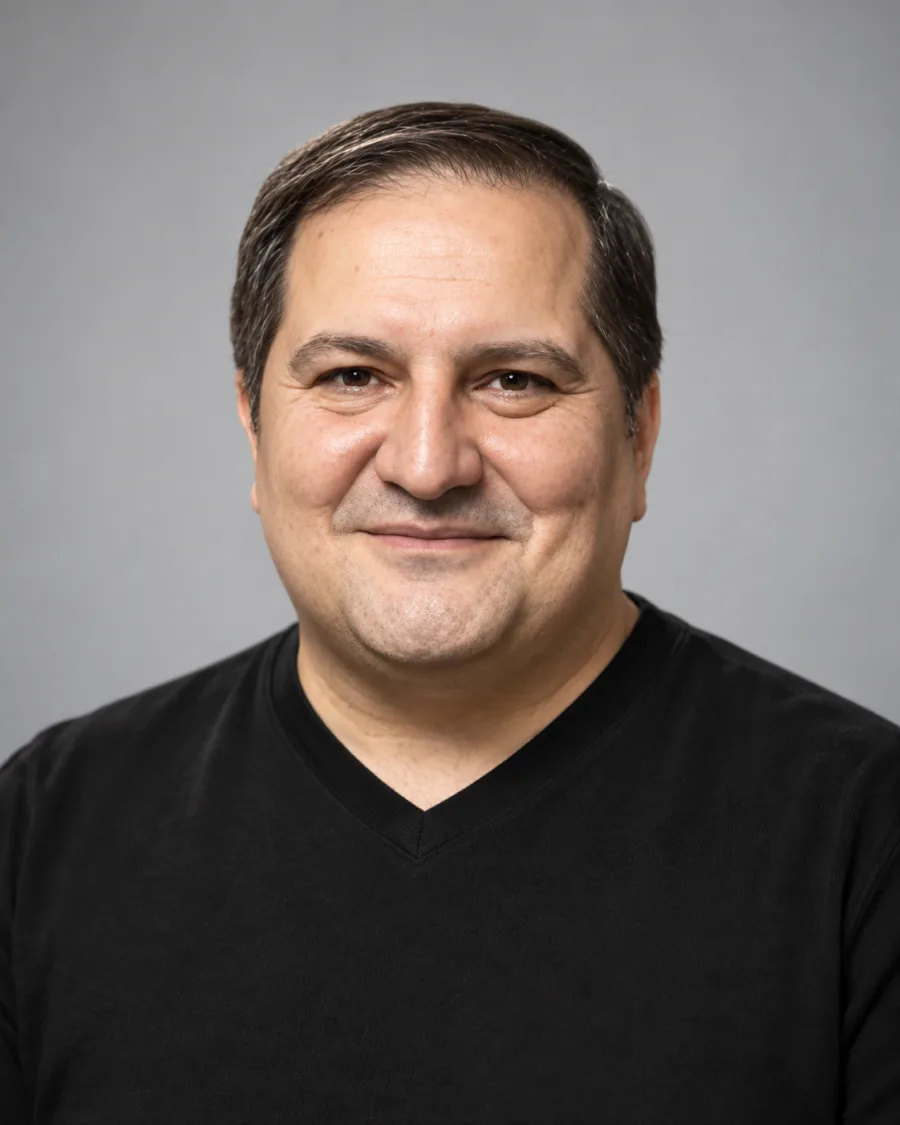
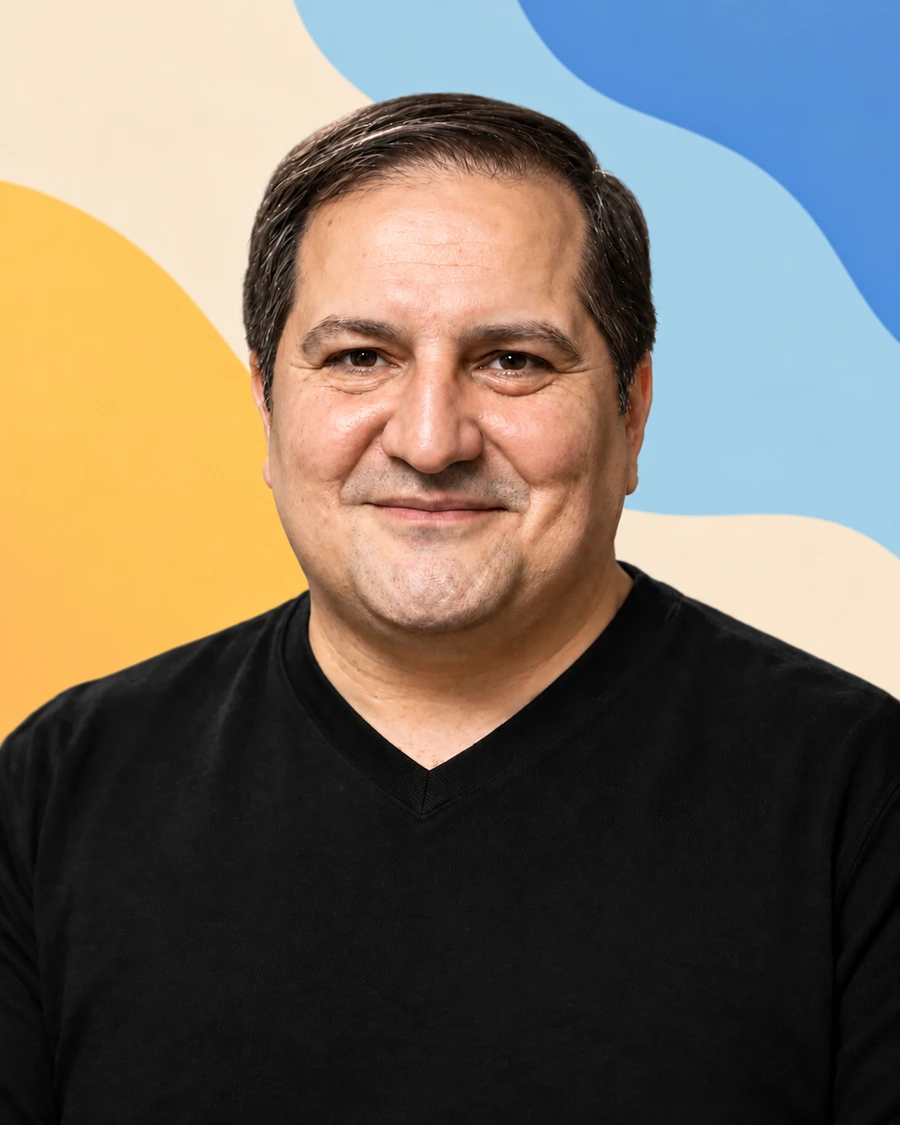
teachers: new colour photos, Mariam Morozova replaces Lilit Kh, bios in paragraphs
- all six teacher portraits on the coloured backgrounds (900×1125 webp)
- Mariam Morozova (Product Designer & Design Engineer) replaces Lilit Khachatryan
  on the three pages and in the aigraget lessons reel
- every bio split into one paragraph per sentence

diff --git a/aigraget.html b/aigraget.html
@@ -588,7 +588,7 @@
           <li><button type="button" class="reel__item" data-video="" aria-current="true"><span class="reel__num">01</span><span class="reel__thumb"><img src="assets/teachers/anahit.webp" alt="" loading="lazy" /></span><span class="reel__text"><span class="reel__name">AI հիմունքներ և անվտանգություն</span><span class="reel__who">Անահիտ Վարդանյան</span></span></button></li>
           <li><button type="button" class="reel__item" data-video=""><span class="reel__num">02</span><span class="reel__thumb"><img src="assets/teachers/nairi.webp" alt="" loading="lazy" /></span><span class="reel__text"><span class="reel__name">AI-ը կյանքի 10 իրավիճակներում</span><span class="reel__who">Նաիրի Արեգ Հացպանյան</span></span></button></li>
           <li><button type="button" class="reel__item" data-video=""><span class="reel__num">03</span><span class="reel__thumb"><img src="assets/teachers/artak.webp" alt="" loading="lazy" /></span><span class="reel__text"><span class="reel__name">Քո 1-ին AI նախագիծը՝ պրեզենտացիա ու Pitch</span><span class="reel__who">Արտակ Գրիգորյան</span></span></button></li>
-          <li><button type="button" class="reel__item" data-video=""><span class="reel__num">04</span><span class="reel__thumb"><img src="assets/teachers/lilit_kh.webp" alt="" loading="lazy" /></span><span class="reel__text"><span class="reel__name">Հետազոտություն ու աղբյուրահեն կոնտենտ</span><span class="reel__who">Լիլիթ Խաչատրյան</span></span></button></li>
+          <li><button type="button" class="reel__item" data-video=""><span class="reel__num">04</span><span class="reel__thumb"><img src="assets/teachers/mariam.webp" alt="" loading="lazy" /></span><span class="reel__text"><span class="reel__name">Հետազոտություն ու աղբյուրահեն կոնտենտ</span><span class="reel__who">Մարիամ Մորոզովա</span></span></button></li>
           <li><button type="button" class="reel__item" data-video=""><span class="reel__num">05</span><span class="reel__thumb"><img src="assets/teachers/lilit_b.webp" alt="" loading="lazy" /></span><span class="reel__text"><span class="reel__name">1000 բառի տեղ խոսող նկարների գեներացիա</span><span class="reel__who">Լիլիթ Բարսեղյան</span></span></button></li>
           <li><button type="button" class="reel__item" data-video=""><span class="reel__num">06</span><span class="reel__thumb"><img src="assets/teachers/gevorg.webp" alt="" loading="lazy" /></span><span class="reel__text"><span class="reel__name">AI վիդեոների գեներացիա. քո վիդեոների ժամանակն է</span><span class="reel__who">Գևորգ Պողոսյան</span></span></button></li>
           <li><button type="button" class="reel__item" data-video=""><span class="reel__num">07</span><span class="reel__thumb"><img src="assets/teachers/anahit.webp" alt="" loading="lazy" /></span><span class="reel__text"><span class="reel__name">Կայքէջերի գեներացիա՝ առանց ծրագրավորող լինելու</span><span class="reel__who">Անահիտ Վարդանյան</span></span></button></li>
@@ -1133,7 +1133,8 @@
               <h3 class="teacher__name">Անահիտ Վարդանյան</h3>
               <p class="teacher__role">AI Strategist</p>
             </div>
-            <p class="teacher__bio">5+ տարվա փորձ հաղորդակցության ոլորտում։ «AI քեզ բան» կրթական ծրագրի համակարգող։</p>
+            <p class="teacher__bio">5+ տարվա փորձ հաղորդակցության ոլորտում։</p>
+            <p class="teacher__bio">«AI քեզ բան» կրթական ծրագրի համակարգող։</p>
             <p class="teacher__meta">400+ ժամ · Start · Level-Up · PRO · Webinar</p>
           </div>
         </article>
@@ -1150,7 +1151,8 @@
               <h3 class="teacher__name">Նաիրի Արեգ Հացպանյան</h3>
               <p class="teacher__role">Full-Stack AI Engineer</p>
             </div>
-            <p class="teacher__bio">7+ տարվա փորձ Full-Stack Development և Vibe Coding։ Մասնագիտացած է custom AI agent ստեղծելու և AI ավտոմատացումների մեջ։</p>
+            <p class="teacher__bio">7+ տարվա փորձ Full-Stack Development և Vibe Coding։</p>
+            <p class="teacher__bio">Մասնագիտացած է custom AI agent ստեղծելու և AI ավտոմատացումների մեջ։</p>
             <p class="teacher__meta">155+ ժամ · Start · Level-Up · PRO · Webinar</p>
           </div>
         </article>
@@ -1167,25 +1169,28 @@
               <h3 class="teacher__name">Արտակ Գրիգորյան</h3>
               <p class="teacher__role">AI Transformation Consultant</p>
             </div>
-            <p class="teacher__bio">Արտակը 10+ տարվա նախագծերի կառավարման փորձ ունի։ AI Transformation թիմի համակարգող է և AI PM։ Վարում է AI ավտոմատացման, AI ագենտների և աղբյուրահեն հետազոտության դասընթացներ։</p>
+            <p class="teacher__bio">Արտակը 10+ տարվա նախագծերի կառավարման փորձ ունի։</p>
+            <p class="teacher__bio">AI Transformation թիմի համակարգող է և AI PM։</p>
+            <p class="teacher__bio">Վարում է AI ավտոմատացման, AI ագենտների և աղբյուրահեն հետազոտության դասընթացներ։</p>
             <p class="teacher__meta">335+ ժամ · Level-Up</p>
           </div>
         </article>
 
         <article class="teacher">
           <div class="teacher__photo">
-            <img src="assets/teachers/lilit_kh.webp" alt="Լիլիթ Խաչատրյան" loading="lazy" />
+            <img src="assets/teachers/mariam.webp" alt="Մարիամ Մորոզովա" loading="lazy" />
           </div>
-          <a class="teacher__link" href="https://www.linkedin.com/in/lika13/" target="_blank" rel="noopener" aria-label="Լիլիթ Խաչատրյան — LinkedIn">
+          <a class="teacher__link" href="https://www.linkedin.com/in/mariammorozova" target="_blank" rel="noopener" aria-label="Մարիամ Մորոզովա — LinkedIn">
             <img src="assets/lucide-arrow-up-right.svg" width="24" height="24" alt="" />
           </a>
           <div class="teacher__body">
             <div class="teacher__head">
-              <h3 class="teacher__name">Լիլիթ Խաչատրյան</h3>
-              <p class="teacher__role">Senior Product Designer &amp; AI Artist</p>
+              <h3 class="teacher__name">Մարիամ Մորոզովա</h3>
+              <p class="teacher__role">Product Designer &amp; Design Engineer</p>
             </div>
-            <p class="teacher__bio">15+ տարվա փորձ Product Design և UX/UI ոլորտներում։ Մասնագիտացած է AI-ով վիզուալներ գեներացնելու և UX/UI-ի մեջ։</p>
-            <p class="teacher__meta">65+ ժամ · Level-Up</p>
+            <p class="teacher__bio">20+ տարվա մասնագիտական փորձ գրաֆիկ, web և product design ոլորտներում։</p>
+            <p class="teacher__bio">AI էնտուզիաստ է, ազատ ժամանակ նկարում է և հող մշակում։</p>
+            <p class="teacher__meta">Level-Up</p>
           </div>
         </article>
 
@@ -1201,7 +1206,9 @@
               <h3 class="teacher__name">Լիլիթ Բարսեղյան</h3>
               <p class="teacher__role">AI Artist &amp; Director</p>
             </div>
-            <p class="teacher__bio">10+ տարվա փորձ ֆիլմարտադրության ոլորտում՝ ռեժիսոր, սցենարիստ։ Մասնագիտացած է AI-ով վիդեո պատմություններ գեներացնելու մեջ։ 2025 թ. դեկտեմբերի առաջին մրցանակին է արժանացել AI International Film Festival-ում՝ որպես Best AI Movie։</p>
+            <p class="teacher__bio">10+ տարվա փորձ ֆիլմարտադրության ոլորտում՝ ռեժիսոր, սցենարիստ։</p>
+            <p class="teacher__bio">Մասնագիտացած է AI-ով վիդեո պատմություններ գեներացնելու մեջ։</p>
+            <p class="teacher__bio">2025 թ. դեկտեմբերի առաջին մրցանակին է արժանացել AI International Film Festival-ում՝ որպես Best AI Movie։</p>
             <p class="teacher__meta">67+ ժամ · Level-Up</p>
           </div>
         </article>
@@ -1218,7 +1225,8 @@
               <h3 class="teacher__name">Գևորգ Պողոսյան</h3>
               <p class="teacher__role">AI First Mindset</p>
             </div>
-            <p class="teacher__bio">30+ տարվա ձեռնարկատիրական փորձով։ «AI-ն առաջին հերթին» մտածելակերպի ուսուցիչ։</p>
+            <p class="teacher__bio">30+ տարվա ձեռնարկատիրական փորձով։</p>
+            <p class="teacher__bio">«AI-ն առաջին հերթին» մտածելակերպի ուսուցիչ։</p>
             <p class="teacher__meta">79+ ժամ · PRO · Webinar</p>
           </div>
         </article>

diff --git a/index.html b/index.html
@@ -942,7 +942,8 @@
               <h3 class="teacher__name">Անահիտ Վարդանյան</h3>
               <p class="teacher__role">AI Strategist</p>
             </div>
-            <p class="teacher__bio">5+ տարվա փորձ հաղորդակցության ոլորտում։ «AI քեզ բան» կրթական ծրագրի համակարգող։</p>
+            <p class="teacher__bio">5+ տարվա փորձ հաղորդակցության ոլորտում։</p>
+            <p class="teacher__bio">«AI քեզ բան» կրթական ծրագրի համակարգող։</p>
             <p class="teacher__meta">400+ ժամ · Start · Level-Up · PRO · Webinar</p>
           </div>
         </article>
@@ -959,7 +960,8 @@
               <h3 class="teacher__name">Նաիրի Արեգ Հացպանյան</h3>
               <p class="teacher__role">Full-Stack AI Engineer</p>
             </div>
-            <p class="teacher__bio">7+ տարվա փորձ Full-Stack Development և Vibe Coding։ Մասնագիտացած է custom AI agent ստեղծելու և AI ավտոմատացումների մեջ։</p>
+            <p class="teacher__bio">7+ տարվա փորձ Full-Stack Development և Vibe Coding։</p>
+            <p class="teacher__bio">Մասնագիտացած է custom AI agent ստեղծելու և AI ավտոմատացումների մեջ։</p>
             <p class="teacher__meta">155+ ժամ · Start · Level-Up · PRO · Webinar</p>
           </div>
         </article>
@@ -976,25 +978,27 @@
               <h3 class="teacher__name">Արտակ Գրիգորյան</h3>
               <p class="teacher__role">AI Automation Expert</p>
             </div>
-            <p class="teacher__bio">10+ տարվա փորձ նախագծերի կառավարման ոլորտում։ AI ավտոմատացումների դասընթացավար և փորձագետ։</p>
+            <p class="teacher__bio">10+ տարվա փորձ նախագծերի կառավարման ոլորտում։</p>
+            <p class="teacher__bio">AI ավտոմատացումների դասընթացավար և փորձագետ։</p>
             <p class="teacher__meta">335+ ժամ · Level-Up</p>
           </div>
         </article>
 
         <article class="teacher">
           <div class="teacher__photo">
-            <img src="assets/teachers/lilit_kh.webp" alt="Լիլիթ Խաչատրյան" loading="lazy" />
+            <img src="assets/teachers/mariam.webp" alt="Մարիամ Մորոզովա" loading="lazy" />
           </div>
-          <a class="teacher__link" href="https://www.linkedin.com/in/lika13/" target="_blank" rel="noopener" aria-label="Լիլիթ Խաչատրյան — LinkedIn">
+          <a class="teacher__link" href="https://www.linkedin.com/in/mariammorozova" target="_blank" rel="noopener" aria-label="Մարիամ Մորոզովա — LinkedIn">
             <img src="assets/lucide-arrow-up-right.svg" width="24" height="24" alt="" />
           </a>
           <div class="teacher__body">
             <div class="teacher__head">
-              <h3 class="teacher__name">Լիլիթ Խաչատրյան</h3>
-              <p class="teacher__role">Senior Product Designer &amp; AI Artist</p>
+              <h3 class="teacher__name">Մարիամ Մորոզովա</h3>
+              <p class="teacher__role">Product Designer &amp; Design Engineer</p>
             </div>
-            <p class="teacher__bio">15+ տարվա փորձ Product Design և UX/UI ոլորտներում։ Մասնագիտացած է AI-ով վիզուալներ գեներացնելու և UX/UI-ի մեջ։</p>
-            <p class="teacher__meta">65+ ժամ · Level-Up</p>
+            <p class="teacher__bio">20+ տարվա մասնագիտական փորձ գրաֆիկ, web և product design ոլորտներում։</p>
+            <p class="teacher__bio">AI էնտուզիաստ է, ազատ ժամանակ նկարում է և հող մշակում։</p>
+            <p class="teacher__meta">Level-Up</p>
           </div>
         </article>
 
@@ -1010,7 +1014,9 @@
               <h3 class="teacher__name">Լիլիթ Բարսեղյան</h3>
               <p class="teacher__role">AI Artist &amp; Director</p>
             </div>
-            <p class="teacher__bio">10+ տարվա փորձ ֆիլմարտադրության ոլորտում՝ ռեժիսոր, սցենարիստ։ Մասնագիտացած է AI-ով վիդեո պատմություններ գեներացնելու մեջ։ 2025 թ. դեկտեմբերի առաջին մրցանակին է արժանացել RUNWAY AI ֆիլմերի համաշխարհային ֆեստիվալում։</p>
+            <p class="teacher__bio">10+ տարվա փորձ ֆիլմարտադրության ոլորտում՝ ռեժիսոր, սցենարիստ։</p>
+            <p class="teacher__bio">Մասնագիտացած է AI-ով վիդեո պատմություններ գեներացնելու մեջ։</p>
+            <p class="teacher__bio">2025 թ. դեկտեմբերի առաջին մրցանակին է արժանացել RUNWAY AI ֆիլմերի համաշխարհային ֆեստիվալում։</p>
             <p class="teacher__meta">67+ ժամ · Level-Up</p>
           </div>
         </article>
@@ -1027,7 +1033,8 @@
               <h3 class="teacher__name">Գևորգ Պողոսյան</h3>
               <p class="teacher__role">AI First Mindset</p>
             </div>
-            <p class="teacher__bio">30+ տարվա ձեռնարկատիրական փորձով։ «AI-ն առաջին հերթին» մտածելակերպի ուսուցիչ։</p>
+            <p class="teacher__bio">30+ տարվա ձեռնարկատիրական փորձով։</p>
+            <p class="teacher__bio">«AI-ն առաջին հերթին» մտածելակերպի ուսուցիչ։</p>
             <p class="teacher__meta">79+ ժամ · PRO · Webinar</p>
           </div>
         </article>

diff --git a/ai-grager.html b/ai-grager.html
@@ -520,7 +520,8 @@
               <h3 class="teacher__name">Անահիտ Վարդանյան</h3>
               <p class="teacher__role">AI Strategist</p>
             </div>
-            <p class="teacher__bio">5+ տարվա փորձ հաղորդակցության ոլորտում։ «AI քեզ բան» կրթական ծրագրի համակարգող։</p>
+            <p class="teacher__bio">5+ տարվա փորձ հաղորդակցության ոլորտում։</p>
+            <p class="teacher__bio">«AI քեզ բան» կրթական ծրագրի համակարգող։</p>
             <p class="teacher__meta">400+ ժամ · Start · Level-Up · PRO · Webinar</p>
           </div>
         </article>
@@ -537,7 +538,8 @@
               <h3 class="teacher__name">Նաիրի Արեգ Հացպանյան</h3>
               <p class="teacher__role">Full-Stack AI Engineer</p>
             </div>
-            <p class="teacher__bio">7+ տարվա փորձ Full-Stack Development և Vibe Coding։ Մասնագիտացած է custom AI agent ստեղծելու և AI ավտոմատացումների մեջ։</p>
+            <p class="teacher__bio">7+ տարվա փորձ Full-Stack Development և Vibe Coding։</p>
+            <p class="teacher__bio">Մասնագիտացած է custom AI agent ստեղծելու և AI ավտոմատացումների մեջ։</p>
             <p class="teacher__meta">155+ ժամ · Start · Level-Up · PRO · Webinar</p>
           </div>
         </article>
@@ -554,25 +556,27 @@
               <h3 class="teacher__name">Արտակ Գրիգորյան</h3>
               <p class="teacher__role">AI Automation Expert</p>
             </div>
-            <p class="teacher__bio">10+ տարվա փորձ նախագծերի կառավարման ոլորտում։ AI ավտոմատացումների դասընթացավար և փորձագետ։</p>
+            <p class="teacher__bio">10+ տարվա փորձ նախագծերի կառավարման ոլորտում։</p>
+            <p class="teacher__bio">AI ավտոմատացումների դասընթացավար և փորձագետ։</p>
             <p class="teacher__meta">335+ ժամ · Level-Up</p>
           </div>
         </article>
 
         <article class="teacher">
           <div class="teacher__photo">
-            <img src="assets/teachers/lilit_kh.webp" alt="Լիլիթ Խաչատրյան" loading="lazy" />
+            <img src="assets/teachers/mariam.webp" alt="Մարիամ Մորոզովա" loading="lazy" />
           </div>
-          <a class="teacher__link" href="https://www.linkedin.com/in/lika13/" target="_blank" rel="noopener" aria-label="Լիլիթ Խաչատրյան — LinkedIn">
+          <a class="teacher__link" href="https://www.linkedin.com/in/mariammorozova" target="_blank" rel="noopener" aria-label="Մարիամ Մորոզովա — LinkedIn">
             <img src="assets/lucide-arrow-up-right.svg" width="24" height="24" alt="" />
           </a>
           <div class="teacher__body">
             <div class="teacher__head">
-              <h3 class="teacher__name">Լիլիթ Խաչատրյան</h3>
-              <p class="teacher__role">Senior Product Designer &amp; AI Artist</p>
+              <h3 class="teacher__name">Մարիամ Մորոզովա</h3>
+              <p class="teacher__role">Product Designer &amp; Design Engineer</p>
             </div>
-            <p class="teacher__bio">15+ տարվա փորձ Product Design և UX/UI ոլորտներում։ Մասնագիտացած է AI-ով վիզուալներ գեներացնելու և UX/UI-ի մեջ։</p>
-            <p class="teacher__meta">65+ ժամ · Level-Up</p>
+            <p class="teacher__bio">20+ տարվա մասնագիտական փորձ գրաֆիկ, web և product design ոլորտներում։</p>
+            <p class="teacher__bio">AI էնտուզիաստ է, ազատ ժամանակ նկարում է և հող մշակում։</p>
+            <p class="teacher__meta">Level-Up</p>
           </div>
         </article>
 
@@ -588,7 +592,9 @@
               <h3 class="teacher__name">Լիլիթ Բարսեղյան</h3>
               <p class="teacher__role">AI Artist &amp; Director</p>
             </div>
-            <p class="teacher__bio">10+ տարվա փորձ ֆիլմարտադրության ոլորտում՝ ռեժիսոր, սցենարիստ։ Մասնագիտացած է AI-ով վիդեո պատմություններ գեներացնելու մեջ։ 2025 թ. դեկտեմբերի առաջին մրցանակին է արժանացել RUNWAY AI ֆիլմերի համաշխարհային ֆեստիվալում։</p>
+            <p class="teacher__bio">10+ տարվա փորձ ֆիլմարտադրության ոլորտում՝ ռեժիսոր, սցենարիստ։</p>
+            <p class="teacher__bio">Մասնագիտացած է AI-ով վիդեո պատմություններ գեներացնելու մեջ։</p>
+            <p class="teacher__bio">2025 թ. դեկտեմբերի առաջին մրցանակին է արժանացել RUNWAY AI ֆիլմերի համաշխարհային ֆեստիվալում։</p>
             <p class="teacher__meta">67+ ժամ · Level-Up</p>
           </div>
         </article>
